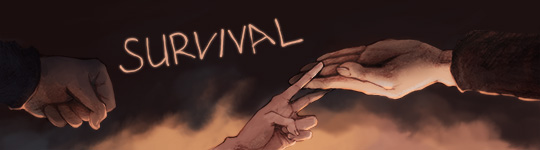
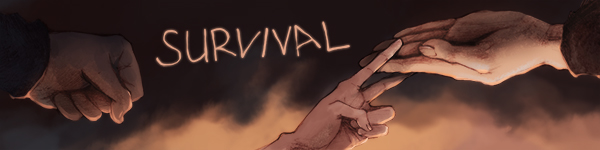
background

diff --git a/pathologic/index.html b/pathologic/index.html
@@ -15,9 +15,6 @@
         <link rel="stylesheet" href="css/font-awesome-4.2.0/css/font-awesome.min.css"/>
         <link rel="stylesheet" href="css/style.css"/>
 
-
-                
-
         <script type="text/javascript" src="js/jquery-2.1.1.min.js"></script>
         <script type="text/javascript" src="js/fastclick.js"></script>
         <script type="text/javascript" src="https://cdn.jsdelivr.net/jquery.slick/1.3.7/slick.min.js"></script>
@@ -25,7 +22,6 @@
     </head>
     <body>
         <header class="header section-background" style="background-image: url('images/bg-btn.jpg');">
-            <!-- <a class="btn pull-left"><i class="fa fa-reorder"></i></a> -->
             <ul class="u-inlineList pull-left header-social btn-group">
                 <li>
                     <a class="btn btn-small serif js-toggleLanguage active">EN</a>
@@ -60,42 +56,68 @@
             <a class="btn btn-large serif u-center" href="http://kickstarter.pathologic-game.com/" target="_blank">Kickstart Us</a>
         </section>
 
-        <section class="section-background section-light" style="background-image: url('images/bg-page1.png');">
-            <h2 class="u-textCenter">What Pathologic Feels Like</h2>
-            <p>It’s a game that always makes you feel in a pinch—but being in a pinch also feels worth it. Whichever of the three playable characters you choose, your goal will always be to determine the origins of Sand Plague and save the Town (or what’s left of it). But in order to do that you’ll first have to survive, and that won’t be an easy task.</p>
-            <p>The plot of Pathologic is broken into twelve days, each of them bringing new stories, quests, and events. Time flows mercilessly: if you fail to finish a task when it’s due, the opportunity goes away—as do human lives. You are completely free to roam and explore the Town, bartering, talking to strangers and generally surviving.</p>
-        </section>
+        <section class="section-withBackground">
+            <img class="section-header" src="images/bg-town-top.png">
+            <div class="section-background section-dark" style="background-image: url('images/bg-town.jpg');">
+                <h2 class="u-textCenter">What is Pathologic?</h2>
+                
+                <p>A plague breaks out in a remote steppe town full of weird local traditions. Three healers try to fight it: a scientist from the Capital, the son of a local shaman, and a half-crazed girl. Each of them has their own idea of how the terrible disease came to be, and what is real magic to one of them becomes backwards superstitions to another.</p>
 
-        <section class="section-background section-light slideshow-padding" style="background-image: url('images/bg-page1.png');">
-            <h2 class="u-textCenter">Screenshots</h2>
-            <ul class="js-slick slideshow">
-                <li>
-                    <img src="http://www.pathologic-game.com/images/screenshots/en/revolver1_eng.jpg">
-                </li>
-                <li>
-                    <img src="http://www.pathologic-game.com/images/screenshots/en/maria2_eng.jpg">
-                </li>
-                <li>
-                    <img src="http://www.pathologic-game.com/images/screenshots/en/maria_eng.jpg">
-                </li>
-                <li>
-                    <img src="http://www.pathologic-game.com/images/screenshots/en/shadow_eng.jpg">
-                </li>
-                <li>
-                    <img src="http://www.pathologic-game.com/images/screenshots/en/night_eng.jpg">
-                </li>
-            </ul>
-        </section>
-
-        <section class="section-background section-dark" style="background-image: url('images/bg-page2.png');">
-            <h2 class="u-textCenter">What Pathologic Feels Like</h2>
-            <p>It’s a game that always makes you feel in a pinch—but being in a pinch also feels worth it. Whichever of the three playable characters you choose, your goal will always be to determine the origins of Sand Plague and save the Town (or what’s left of it). But in order to do that you’ll first have to survive, and that won’t be an easy task.</p>
-            <p>The plot of Pathologic is broken into twelve days, each of them bringing new stories, quests, and events. Time flows mercilessly: if you fail to finish a task when it’s due, the opportunity goes away—as do human lives. You are completely free to roam and explore the Town, bartering, talking to strangers and generally surviving.</p>
+                <p>Taking on the role of any of these doctors, you’ll try to overcome the invisible evil while doing your best not to succumb to the disease, to bandits, hunger, and fatigue; scavenging and bartering for pills, bread, and milk. But it’s hard to survive in Pathologic—the remake of a ruthless and critically acclaimed Russian survival adventure game from 2005!</p>
+            </div>
         </section>
 
         <section class="section-withBackground">
-            <img class="section-header" src="images/bg-page3-top.png">
-            <div class="section-background section-light slideshow-padding" style="background-image: url('images/bg-page3.jpg');">
+            <img class="section-header" src="images/bg-canvas2-top.png">
+            <div class="section-background section-light slideshow-padding" style="background-image: url('images/bg-canvas2.jpg');">
+                <h2 class="u-textCenter">Screenshots</h2>
+                <ul class="js-slick slideshow">
+                    <li>
+                        <img src="images/screenshot-tragedian.png">
+                    </li>
+                    <li>
+                        <img src="images/screenshot-maria.png">
+                    </li>
+                    <li>
+                        <img src="images/screenshot-night.png">
+                    </li>
+                    <li>
+                        <img src="images/screenshot-executor.png">
+                    </li>
+                    <li>
+                        <img src="images/screenshot-inventory.png">
+                    </li>
+                    <li>
+                        <img src="images/screenshot-revolver.png">
+                    </li>
+                    <li>
+                        <img src="images/screenshot-maria2.png">
+                    </li>
+                    <li>
+                        <img src="images/screenshot-shadow.png">
+                    </li>
+                </ul>
+            </div>
+        </section>
+
+        <section class="section-withBackground">
+            <img class="section-header" src="images/bg-destruction-top.png">
+            <div class="section-background section-dark" style="background-image: url('images/bg-destruction.jpg');">
+                <h2 class="u-textCenter">What Pathologic Feels Like</h2>
+                
+                <p>It’s a game that always makes you feel in a pinch—but being in a pinch also feels worth it. Whichever of the three playable characters you choose, your goal will always be to determine the origins of Sand Plague and save the Town (or what’s left of it). But in order to do that you’ll first have to survive, and that won’t be an easy task.</p>
+
+                <p>The plot of Pathologic is broken into twelve days, each of them bringing new stories, quests, and events. Time flows mercilessly: if you fail to finish a task when it’s due, the opportunity goes away—as do human lives. You are completely free to roam and explore the Town, bartering, talking to strangers and generally surviving.</p>
+
+                <p>The hero needs to eat and sleep, to take care of his immune system—it’s the only thing that can preserve him from being infected with the Plague. To do all that you’ll need resources: fresh water, bandages, bullets; even bread and coffee grains, but inflation and panic will steal things from you, making merchants greedy and turning the townsfolk into shameless bandits.</p>
+
+                <p>But your scariest enemy is not a bandit armed to his teeth, but rather the disease itself.</p>
+            </div>
+        </section>
+
+        <section class="section-withBackground">
+            <img class="section-header" src="images/bg-canvas-top.png">
+            <div class="section-background section-light slideshow-padding" style="background-image: url('images/bg-canvas.jpg');">
                 <h2 class="u-textCenter">Features</h2>
                 <ul class="js-slick slideshow">
                     <li class="features-listItem">
@@ -146,21 +168,31 @@
             </div>
         </section>
 
-        <section class="section-background section-dark" style="background-image: url('images/bg-page4.png');">
-            <h2 class="u-textCenter">Why Pathologic?</h2>
-            <p>The uniqueness of Pathologic lies in the ideas that fill its fabric, not in its genre or setting (though we like to think that they’re pretty unusual too). We don’t want to make another game that lies to you that in order to save the world you just need to kill the bad guy. It’s not that simple. Never that simple.</p>
+        <section class="section-withBackground">
+            <img class="section-header" src="images/bg-maria-top.png">
+            <div class="section-background section-dark" style="background-image: url('images/bg-maria.jpg');">
+                <h2 class="u-textCenter">Why Pathologic?</h2>
+                <p>The uniqueness of Pathologic lies in the ideas that fill its fabric, not in its genre or setting (though we like to think that they’re pretty unusual too). We don’t want to make another game that lies to you that in order to save the world you just need to kill the bad guy. It’s not that simple. Never that simple.</p>
 
-            <p>We don’t shy away from making a game challenging in every aspect—from scavenging and fighting to facing tough questions with no right answer. The Town is there for you. Just go for it. The only crime is inaction.</p>
+                <p>We don’t shy away from making a game challenging in every aspect—from scavenging and fighting to facing tough questions with no right answer. The Town is there for you. Just go for it. The only crime is inaction.</p>
+            </div>
         </section>
 
-        <section class="section-background section-dark" style="background-image: url('images/bg-page5.png');">
-            <h2 class="u-textCenter">Pathologic in the Press</h2>
-            <p>The uniqueness of Pathologic lies in the ideas that fill its fabric, not in its genre or setting (though we like to think that they’re pretty unusual too).</p>
+        <section class="section-withBackground">
+            <img class="section-header" src="images/bg-landscape-top.png">
+            <div class="section-background section-light" style="background-image: url('images/bg-landscape.jpg');">
+                <h2 class="u-textCenter">Pathologic in the Press</h2>
+                <p>The uniqueness of Pathologic lies in the ideas that fill its fabric, not in its genre or setting (though we like to think that they’re pretty unusual too).</p>
+            </div>
         </section>
 
-        <section class="section-background section-footer u-textCenter" style="background-image: url('images/bg-page3.jpg');">
-            <a class="btn btn-large serif u-center" href="http://kickstarter.pathologic-game.com/" target="_blank">Kickstart Us</a>
-            <a class="link" href="http://www.pathologic-game.com/">View Desktop Site</a>
+        <section class="section-withBackground">
+            <img class="section-header" src="images/bg-town-top.png">
+            <div class="section-background section-dark">
+                <a class="btn btn-large serif u-center" href="http://kickstarter.pathologic-game.com/" target="_blank">Kickstart Us</a>
+                <p class="u-textCenter"><a class="link" href="http://www.pathologic-game.com/">View Desktop Site</a></p>
+                <img class="u-center" src="images/glyph.png" style="width:64px;">
+            </div>
         </section>
 
     </body>

diff --git a/pathologic/css/style.css b/pathologic/css/style.css
@@ -405,7 +405,7 @@ th {
 body {
   font-family: "Quattrocento Sans";
   font-size: 15px;
-  line-height: 18px;
+  line-height: 20px;
   color: #421703; }
 
 h1,
@@ -431,10 +431,19 @@ h5,
 
 h2 {
   font-size: 24px;
-  line-height: 30px; }
+  line-height: 30px;
+  white-space: nowrap; }
 
 p {
+  max-width: 460px;
+  margin-left: auto;
+  margin-right: auto;
   margin-bottom: 15px; }
+  p:last-child {
+    margin-bottom: 0; }
+
+body {
+  background: #421703; }
 
 img {
   display: block;
@@ -532,16 +541,13 @@ a {
   box-shadow: inset 4px 0px 5px rgba(0, 0, 0, 0.4); }
 
 /* Sections */
-section {
-  overflow: hidden; }
-
 .section-header {
-  margin-top: -3%; }
+  margin-top: -5%; }
 
 .section-background {
   background-position: top center;
   background-size: 100% auto;
-  padding: 40px 15px 20px; }
+  padding: 8px 15px 40px; }
 
 .section-light {
   color: #421703; }
@@ -584,7 +590,6 @@ section {
 /* Hero */
 .hero {
   color: #f3eee3;
-  background: #421703;
   padding: 0 0 30px; }
 
 .hero-text {
@@ -597,7 +602,8 @@ section {
 .slideshow {
   margin: 0;
   padding: 0;
-  list-style: none; }
+  list-style: none;
+  cursor: move; }
 
 .slideshow-padding {
   padding-left: 0;

diff --git a/pathologic/css/style.scss b/pathologic/css/style.scss
@@ -22,6 +22,9 @@ $cream: #f3eee3;
 @import 'utilities';
 @import 'typography';
 
+body {
+    background: $brown;
+}
 img {
     display: block;
     width: 100%;
@@ -147,18 +150,18 @@ a {
 
 /* Sections */
 section {
-    overflow: hidden;
+    // overflow: hidden;
 }
 .section-withBackground {
     // margin-top: -13px;
 }
 .section-header {
-    margin-top: -3%;
+    margin-top: -5%;
 }
 .section-background {
     background-position: top center;
     background-size: 100% auto;
-    padding: 40px 15px 20px;
+    padding: 8px 15px 40px;
 }
 .section-light {
     color: $brown;
@@ -220,7 +223,6 @@ section {
 /* Hero */
 .hero {
     color: $cream;
-    background: $brown;
     padding: 0 0 30px;
 }
 .hero-text {
@@ -241,6 +243,7 @@ section {
     margin: 0;
     padding: 0;
     list-style: none;
+    cursor: move;
 }
 .slideshow-padding {
     padding-left: 0;

diff --git a/pathologic/css/typography.scss b/pathologic/css/typography.scss
@@ -1,7 +1,7 @@
 body {
     font-family: "Quattrocento Sans";
     font-size: 15px;
-    line-height: 18px;
+    line-height: 20px;
     color: $brown;
 }
 h1,
@@ -28,7 +28,14 @@ h5,
 h2 {
     font-size: 24px;
     line-height: 30px;
+    white-space: nowrap;
 }
 p {
+    max-width: 460px;
+    margin-left: auto;
+    margin-right: auto;
     margin-bottom: 15px;
+    &:last-child {
+        margin-bottom: 0;
+    }
 }
